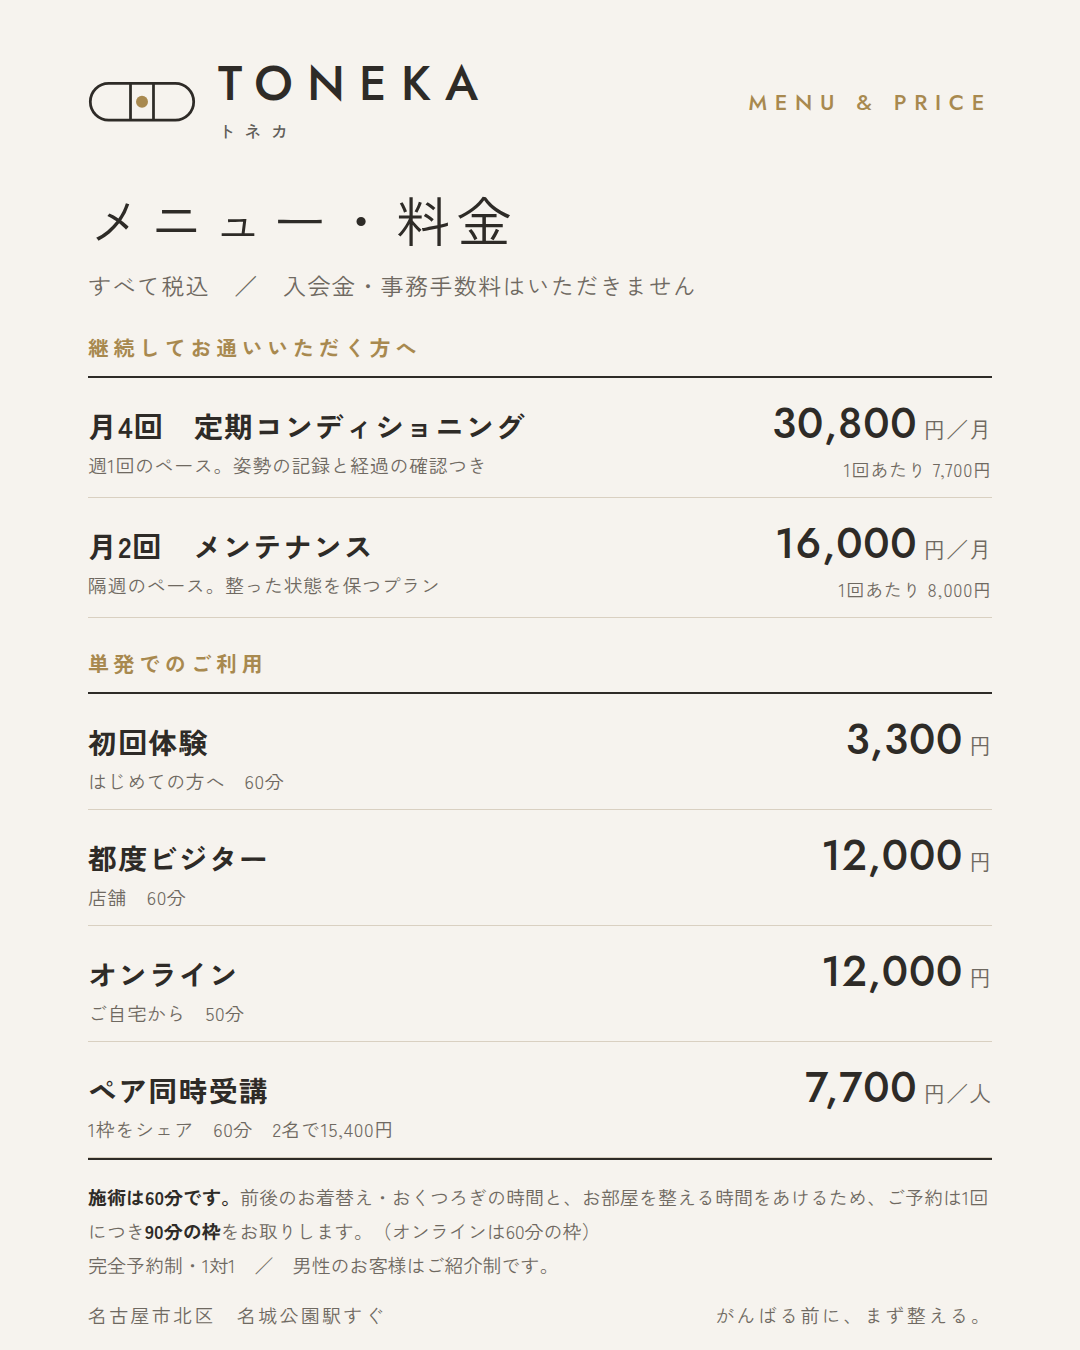
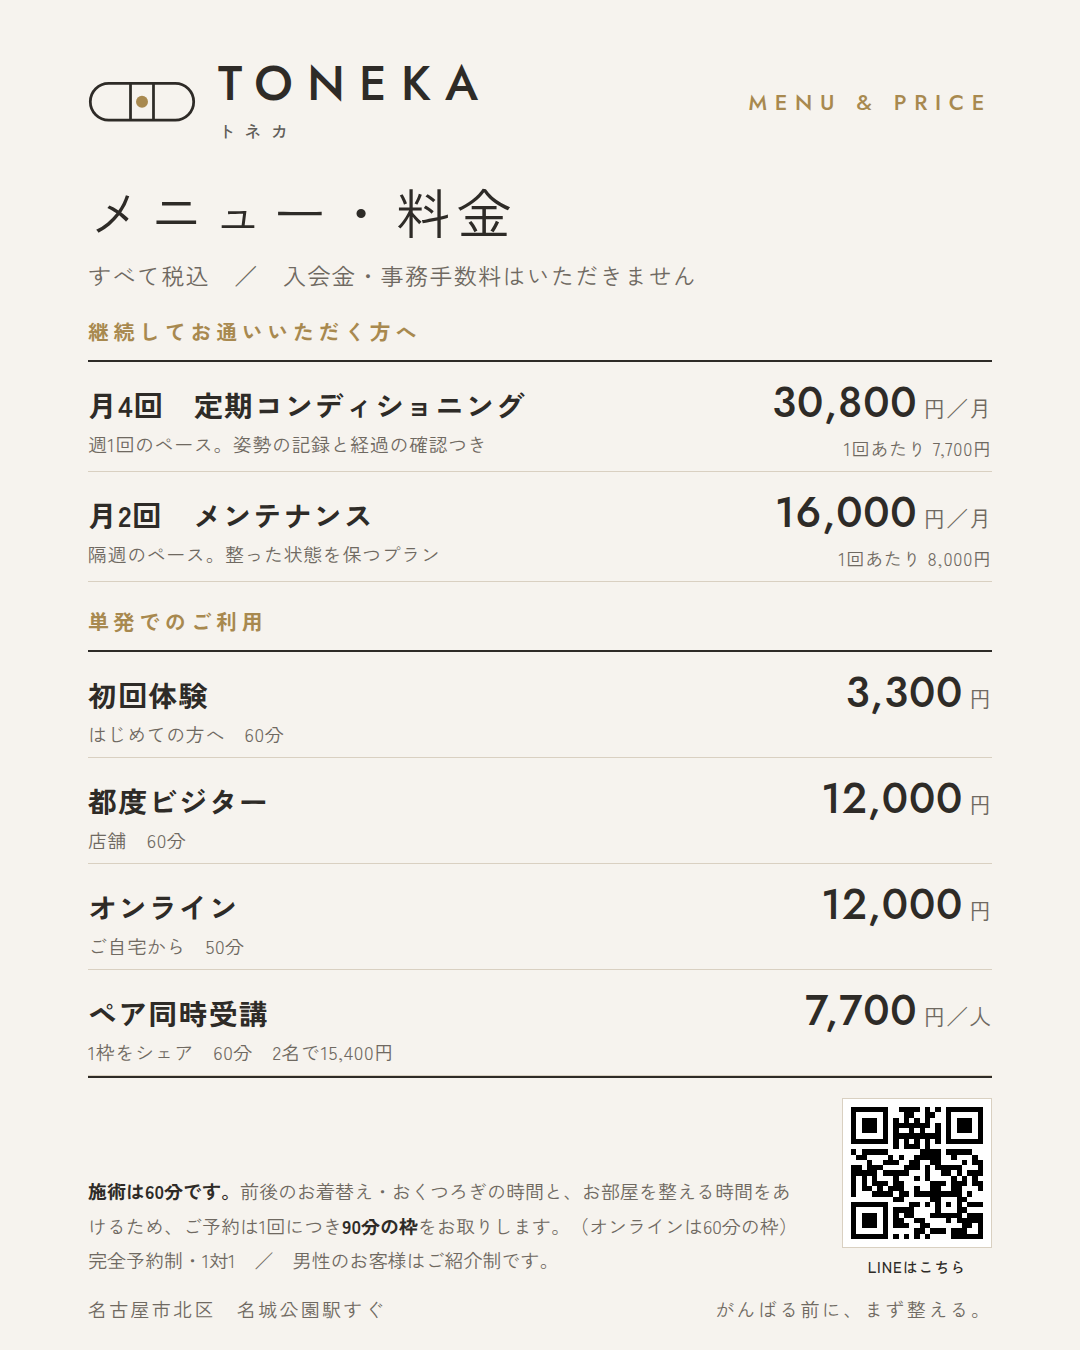
メニュー表にLINEのQRコードを追加
Claude-Session: https://claude.ai/code/session_01W4BHVBxgug1errHoaDhgy9

Changed region(s): [[0.0611, 0.1244, 0.9167, 0.9956], [0.7028, 0.28, 0.9167, 0.4667], [0.6722, 0.9644, 0.7639, 0.9956]]

diff --git a/03_Marketer/メニュー表/menu.html b/03_Marketer/メニュー表/menu.html
@@ -16,17 +16,17 @@ body{width:1080px;height:1350px;background:var(--bg);color:var(--ink);font-famil
 .word{font-family:var(--sans);font-weight:500;font-size:48px;letter-spacing:.3em;line-height:1}
 .kana{font-size:17px;letter-spacing:.55em;opacity:.75;margin-top:10px;font-weight:500}
 .eyebrow{font-family:var(--sans);font-size:22px;letter-spacing:.35em;color:var(--brass);font-weight:500}
-h1{font-family:var(--sans);font-weight:400;font-size:54px;letter-spacing:.14em;margin:36px 0 6px}
+h1{font-family:var(--sans);font-weight:400;font-size:54px;letter-spacing:.14em;margin:28px 0 4px}
 .sub{font-size:23px;color:var(--muted);letter-spacing:.06em}
-.group{margin-top:30px}
+.group{margin-top:24px}
 .glabel{font-size:21px;letter-spacing:.22em;color:var(--brass);font-weight:700;padding-bottom:14px;border-bottom:2px solid var(--ink)}
-.item{display:flex;align-items:baseline;justify-content:space-between;gap:24px;padding:15px 0;border-bottom:1px solid var(--line)}
+.item{display:flex;align-items:baseline;justify-content:space-between;gap:24px;padding:10px 0;border-bottom:1px solid var(--line)}
 .item .n{font-size:29px;font-weight:700;letter-spacing:.04em}
 .item .d{font-size:19px;color:var(--muted);margin-top:5px;letter-spacing:.03em}
 .price{font-family:var(--sans);font-weight:500;font-size:42px;letter-spacing:.02em;white-space:nowrap;text-align:right}
 .price small{font-family:var(--jp);font-size:22px;margin-left:6px;color:var(--muted);font-weight:400}
 .price .per{display:block;font-family:var(--jp);font-size:18px;color:var(--muted);margin-top:2px;font-weight:400}
-.note{margin-top:auto;border-top:2px solid var(--ink);padding-top:20px;font-size:19px;line-height:1.8;color:var(--muted)}
+.bottom{margin-top:auto;border-top:2px solid var(--ink);padding-top:20px;display:flex;gap:36px;align-items:flex-end}.note{flex:1;font-size:19px;line-height:1.8;color:var(--muted)}.qrbox{width:150px;text-align:center;flex:none}.qr{width:150px;height:150px;display:block;background:#fff;padding:8px;border:1px solid var(--line)}.qrcap{font-size:15px;letter-spacing:.06em;margin-top:8px;color:var(--ink);font-weight:500}
 .note b{color:var(--ink);font-weight:700}
 .foot{display:flex;justify-content:space-between;margin-top:18px;font-size:19px;letter-spacing:.12em;color:var(--muted)}
 </style></head><body>
@@ -54,9 +54,9 @@ h1{font-family:var(--sans);font-weight:400;font-size:54px;letter-spacing:.14em;m
   <div class="item"><div><div class="n">ペア同時受講</div><div class="d">1枠をシェア　60分　2名で15,400円</div></div><div class="price">7,700<small>円／人</small></div></div>
 </div>
 
-<div class="note">
+<div class="bottom"><div class="note">
   <b>施術は60分です。</b>前後のお着替え・おくつろぎの時間と、お部屋を整える時間をあけるため、ご予約は1回につき<b>90分の枠</b>をお取りします。（オンラインは60分の枠）<br>
   完全予約制・1対1　／　男性のお客様はご紹介制です。
-</div>
+</div><div class="qrbox"><svg class="qr" xmlns="http://www.w3.org/2000/svg" viewBox="0 0 25 25" shape-rendering="crispEdges"><path fill="#ffffff" d="M0 0h25v25H0z"/><path stroke="#000000" d="M0 0.5h7m2 0h4m1 0h1m1 0h1m1 0h7M0 1.5h1m5 0h1m3 0h2m2 0h2m2 0h1m5 0h1M0 2.5h1m1 0h3m1 0h1m1 0h1m1 0h1m1 0h1m1 0h1m3 0h1m1 0h3m1 0h1M0 3.5h1m1 0h3m1 0h1m1 0h7m1 0h1m1 0h1m1 0h3m1 0h1M0 4.5h1m1 0h3m1 0h1m1 0h1m2 0h1m1 0h1m2 0h1m1 0h1m1 0h3m1 0h1M0 5.5h1m5 0h1m1 0h9m1 0h1m5 0h1M0 6.5h7m1 0h1m1 0h1m1 0h1m1 0h1m1 0h1m1 0h7M8 7.5h1m1 0h3m1 0h1M0 8.5h1m1 0h5m6 0h4m1 0h5M1 9.5h2m4 0h1m1 0h1m2 0h5m2 0h1m3 0h1M3 10.5h1m2 0h3m2 0h2m2 0h2m4 0h1m1 0h2M0 11.5h2m1 0h3m4 0h3m1 0h1m1 0h5m3 0h1M0 12.5h5m1 0h5m3 0h1m2 0h2m1 0h1m1 0h3M0 13.5h1m1 0h1m1 0h1m3 0h1m3 0h1m1 0h1m4 0h1m1 0h1m1 0h1M0 14.5h1m1 0h1m1 0h3m1 0h2m5 0h3m1 0h3m1 0h2M0 15.5h1m1 0h2m1 0h1m1 0h3m2 0h1m2 0h2m2 0h2m3 0h1M0 16.5h1m3 0h4m1 0h2m1 0h9m1 0h1M8 17.5h2m5 0h2m3 0h2M0 18.5h7m4 0h2m1 0h1m1 0h1m1 0h1m1 0h1m1 0h3M0 19.5h1m5 0h1m1 0h4m4 0h1m3 0h2M0 20.5h1m1 0h3m1 0h1m1 0h1m1 0h2m3 0h6m1 0h3M0 21.5h1m1 0h3m1 0h1m1 0h2m2 0h2m4 0h1m1 0h5M0 22.5h1m1 0h3m1 0h1m1 0h3m2 0h2m6 0h2m1 0h1M0 23.5h1m5 0h1m5 0h2m1 0h3m1 0h3m2 0h1M0 24.5h7m1 0h1m1 0h1m1 0h1m1 0h1m4 0h6"/></svg><div class="qrcap">LINEはこちら</div></div></div>
 <div class="foot"><span>名古屋市北区　名城公園駅すぐ</span><span>がんばる前に、まず整える。</span></div>
 </body></html>

diff --git a/03_Marketer/メニュー表/README.md b/03_Marketer/メニュー表/README.md
@@ -6,4 +6,5 @@
 - `menu.html`：画像の元データ。フォント（Jost／Zen Kaku Gothic New）は `@fontsource` のnpmパッケージを使う（同じ階層に `npm i @fontsource/jost @fontsource/zen-kaku-gothic-new` してから開く）。PNGにするには、1080×1350のウィンドウで開いて、スクリーンショットを撮る。
 - 載せている内容：確定済みのメニューだけ。**コンディショニングストレッチ（案）は、価格が未決のため、載せていない。**
 - ロゴ：水平器（目盛りなし・真円・線とのあいだにすき間）と、ゴシック（Jost）の文字。**ロゴの形と書体は、まだ確定ではない**（代表が人に相談中）。確定したら作り直す。
+- 右下に、LINE公式アカウントのQRコード（https://lin.ee/SzuoyPd）を入れた。QRは `qrcode`（npm）で生成。**印刷・投稿の前に、スマホで読み取れるか確認する。**
 - 税込表記、90分枠の注記、ご紹介制の文は、HPと同じ。
